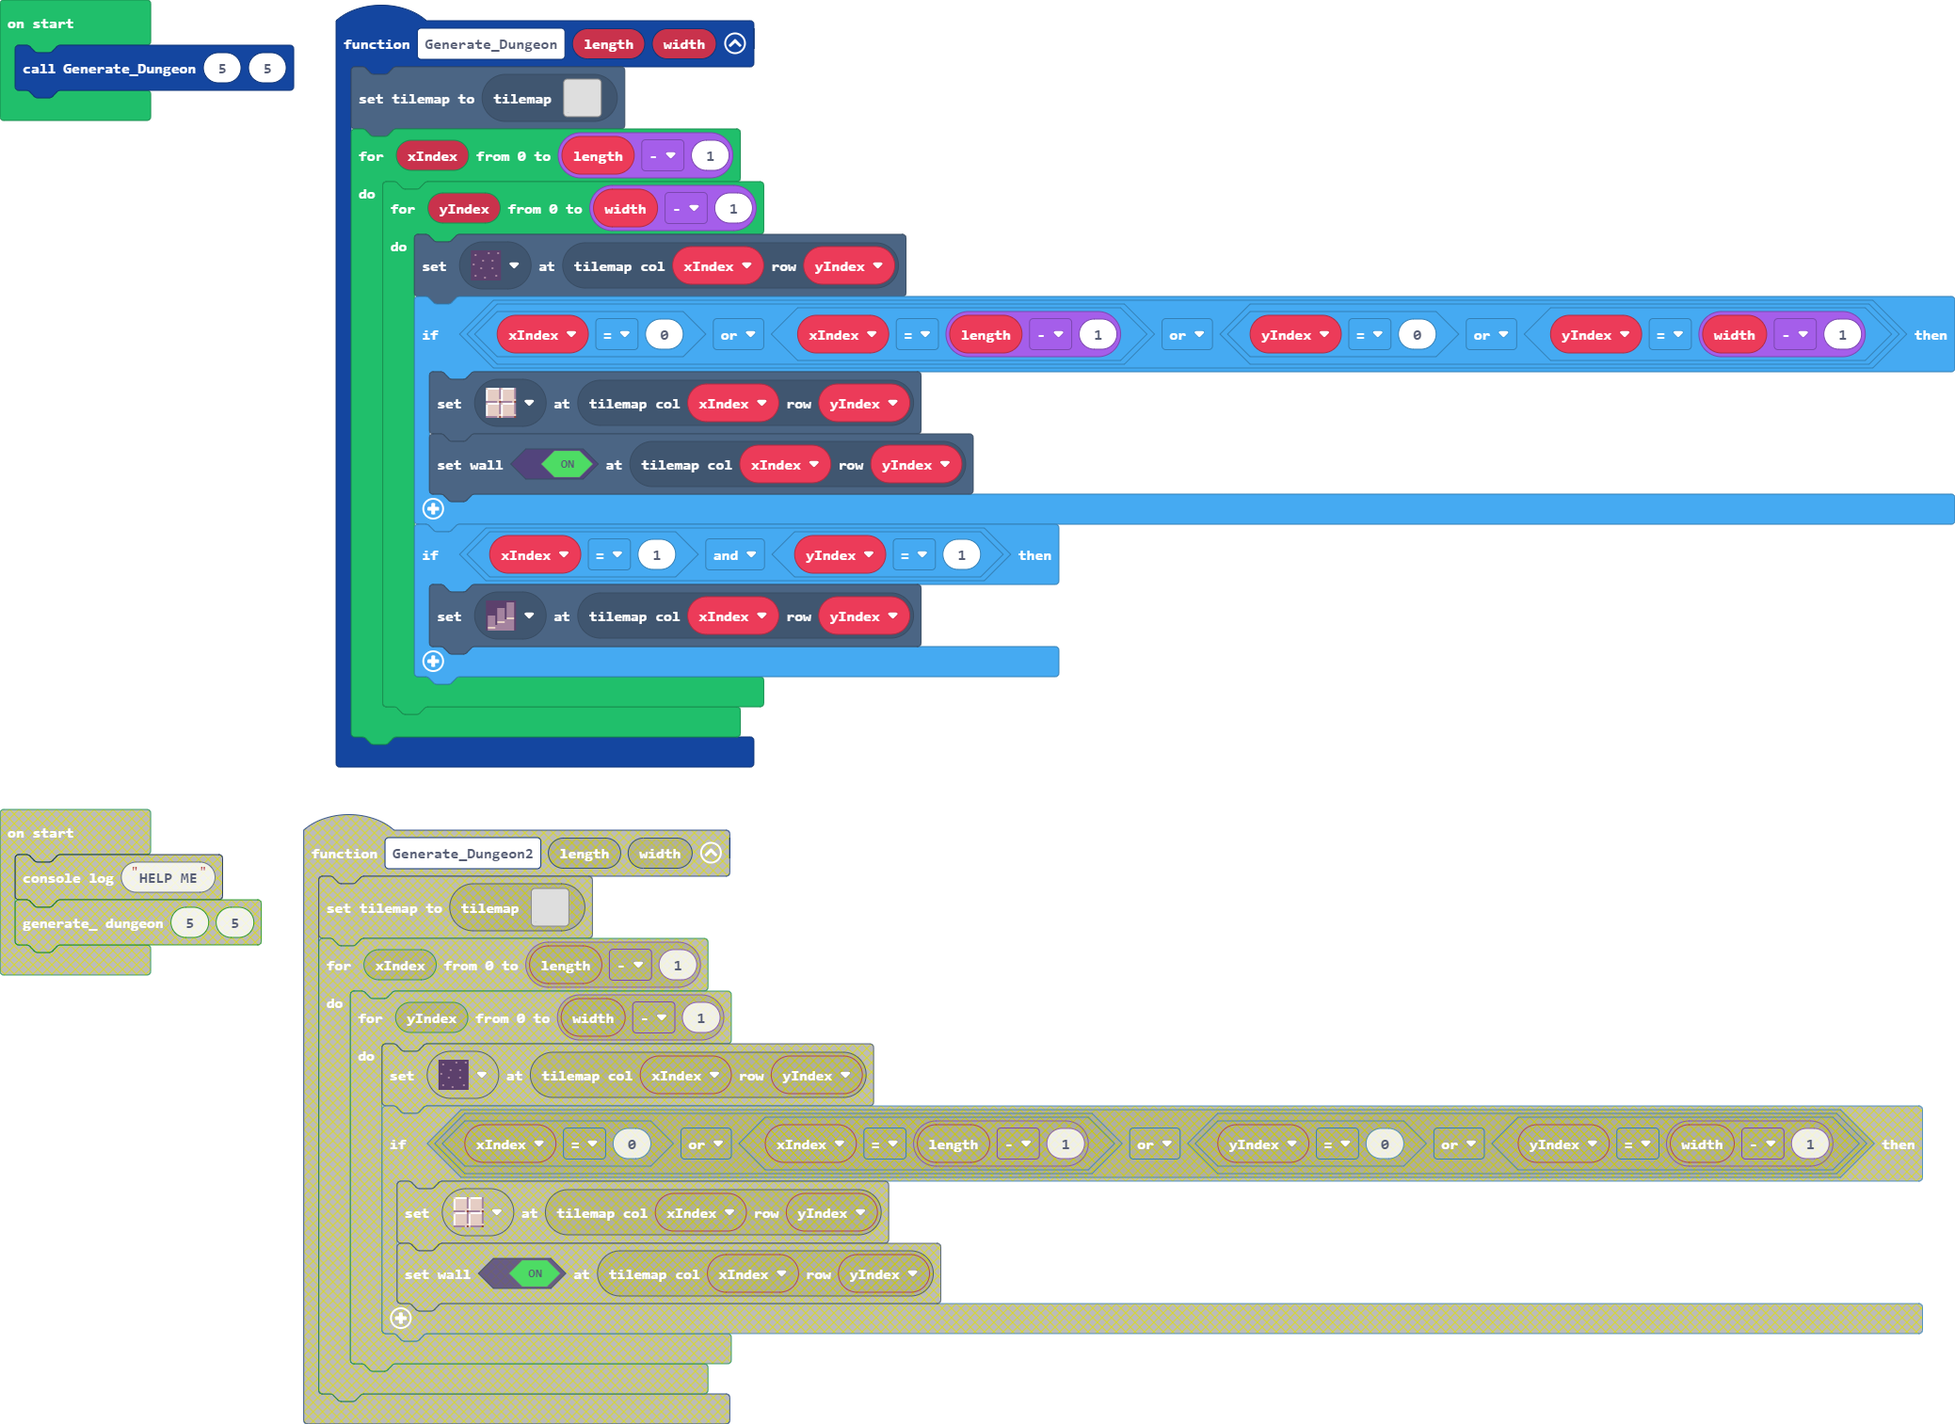
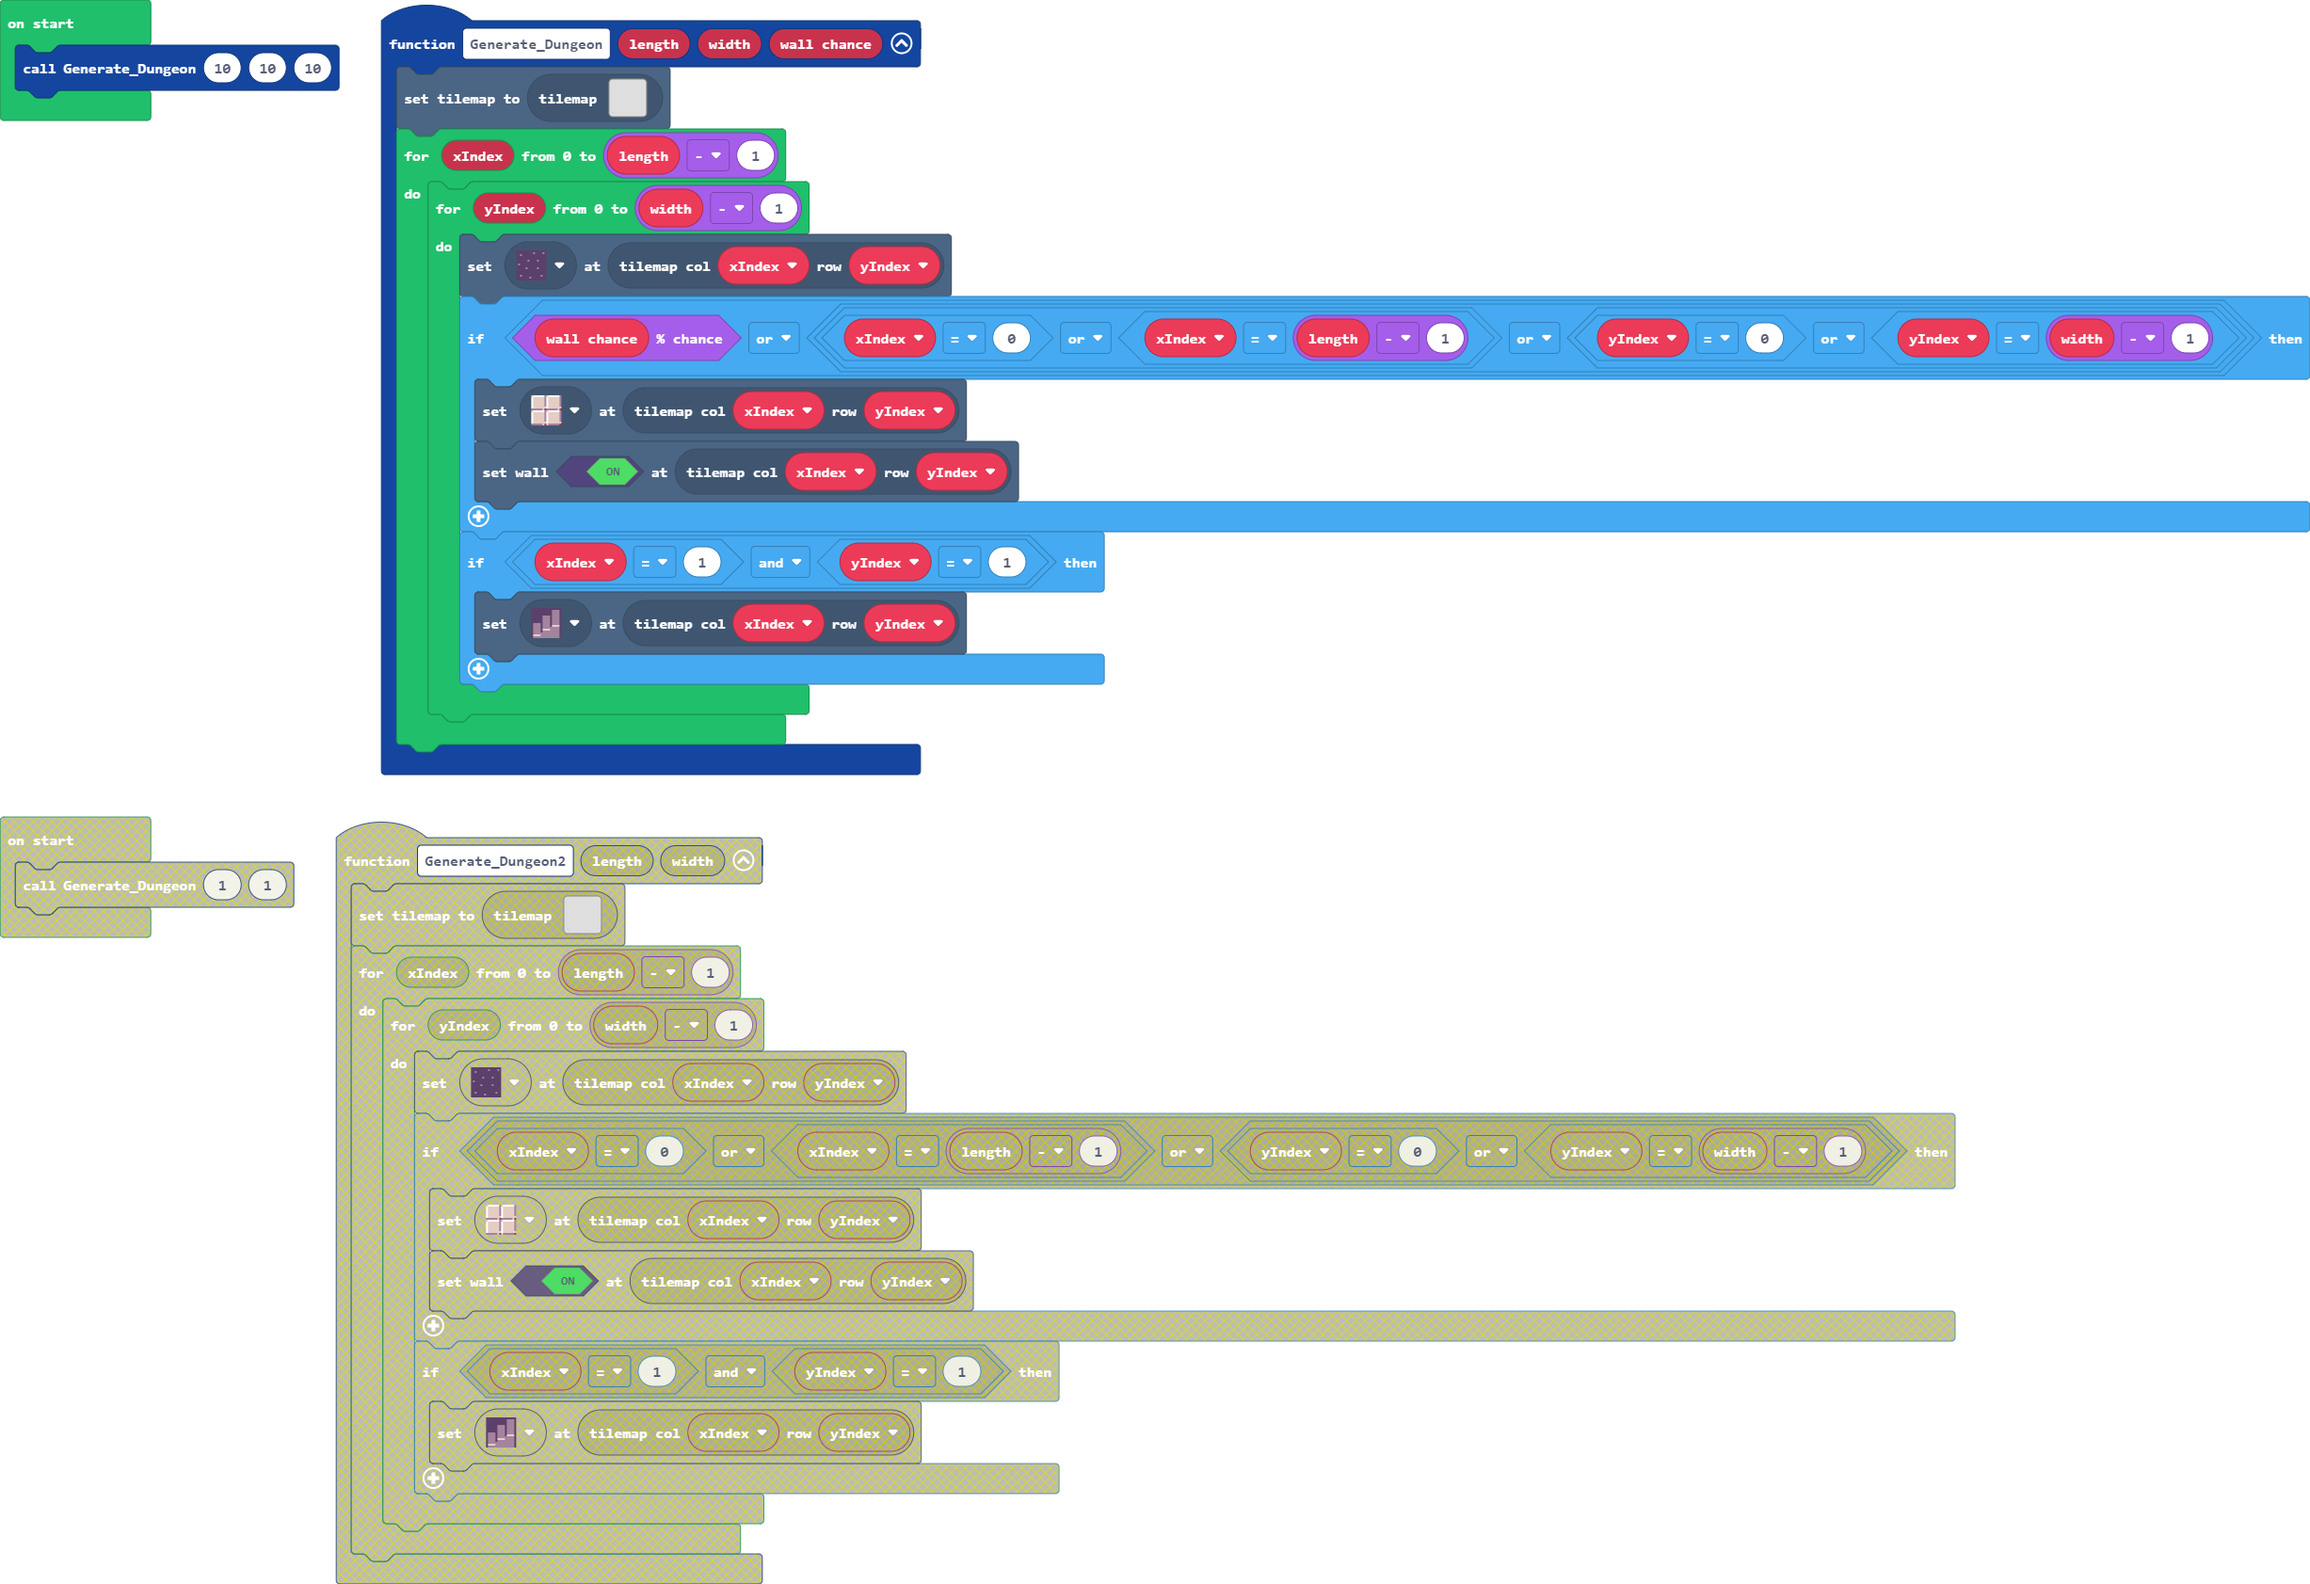
Added random wall placements!

diff --git a/tilemap.g.ts b/tilemap.g.ts
@@ -184,6 +184,44 @@ namespace myTiles {
 . . . . . . . . . . . . . . . . 
 . . . . . . . . . . . . . . . . 
 `, [myTiles.transparency16], TileScale.Sixteen);
+            case "level6":
+            case "level6":return tiles.createTilemap(hex`1000100000000000000000000000000000000000000000000000000000000000000000000000000000000000000000000000000000000000000000000000000000000000000000000000000000000000000000000000000000000000000000000000000000000000000000000000000000000000000000000000000000000000000000000000000000000000000000000000000000000000000000000000000000000000000000000000000000000000000000000000000000000000000000000000000000000000000000000000000000000000000000000000000000000000000000000000000000000000000000000000000000000000000000000000000000000000`, img`
+. . . . . . . . . . . . . . . . 
+. . . . . . . . . . . . . . . . 
+. . . . . . . . . . . . . . . . 
+. . . . . . . . . . . . . . . . 
+. . . . . . . . . . . . . . . . 
+. . . . . . . . . . . . . . . . 
+. . . . . . . . . . . . . . . . 
+. . . . . . . . . . . . . . . . 
+. . . . . . . . . . . . . . . . 
+. . . . . . . . . . . . . . . . 
+. . . . . . . . . . . . . . . . 
+. . . . . . . . . . . . . . . . 
+. . . . . . . . . . . . . . . . 
+. . . . . . . . . . . . . . . . 
+. . . . . . . . . . . . . . . . 
+. . . . . . . . . . . . . . . . 
+`, [myTiles.transparency16], TileScale.Sixteen);
+            case "level7":
+            case "level7":return tiles.createTilemap(hex`1000100000000000000000000000000000000000000000000000000000000000000000000000000000000000000000000000000000000000000000000000000000000000000000000000000000000000000000000000000000000000000000000000000000000000000000000000000000000000000000000000000000000000000000000000000000000000000000000000000000000000000000000000000000000000000000000000000000000000000000000000000000000000000000000000000000000000000000000000000000000000000000000000000000000000000000000000000000000000000000000000000000000000000000000000000000000000`, img`
+. . . . . . . . . . . . . . . . 
+. . . . . . . . . . . . . . . . 
+. . . . . . . . . . . . . . . . 
+. . . . . . . . . . . . . . . . 
+. . . . . . . . . . . . . . . . 
+. . . . . . . . . . . . . . . . 
+. . . . . . . . . . . . . . . . 
+. . . . . . . . . . . . . . . . 
+. . . . . . . . . . . . . . . . 
+. . . . . . . . . . . . . . . . 
+. . . . . . . . . . . . . . . . 
+. . . . . . . . . . . . . . . . 
+. . . . . . . . . . . . . . . . 
+. . . . . . . . . . . . . . . . 
+. . . . . . . . . . . . . . . . 
+. . . . . . . . . . . . . . . . 
+`, [myTiles.transparency16], TileScale.Sixteen);
         }
         return null;
     })

diff --git a/custom.ts b/custom.ts
@@ -17,12 +17,12 @@ namespace dungeons {
      * @param width how long the dungeon will be, in tiles, eg: 10
      */
     //% block
-    export function Generate_Dungeon(length: number, width: number) {
+    export function Generate_Dungeon(length: number, width: number, wall_chance: number) {
         tiles.setCurrentTilemap(tilemap`level1`)
         for (let xIndex = 0; xIndex <= length - 1; xIndex++) {
             for (let yIndex = 0; yIndex <= width - 1; yIndex++) {
                 tiles.setTileAt(tiles.getTileLocation(xIndex, yIndex), sprites.dungeon.darkGroundCenter)
-                if (xIndex == 0 || xIndex == length - 1 || (yIndex == 0 || yIndex == width - 1)) {
+                if (Math.percentChance(wall_chance) || (xIndex == 0 || xIndex == length - 1 || (yIndex == 0 || yIndex == width - 1))) {
                     tiles.setTileAt(tiles.getTileLocation(xIndex, yIndex), sprites.dungeon.floorLight0)
                     tiles.setWallAt(tiles.getTileLocation(xIndex, yIndex), true)
                 }
